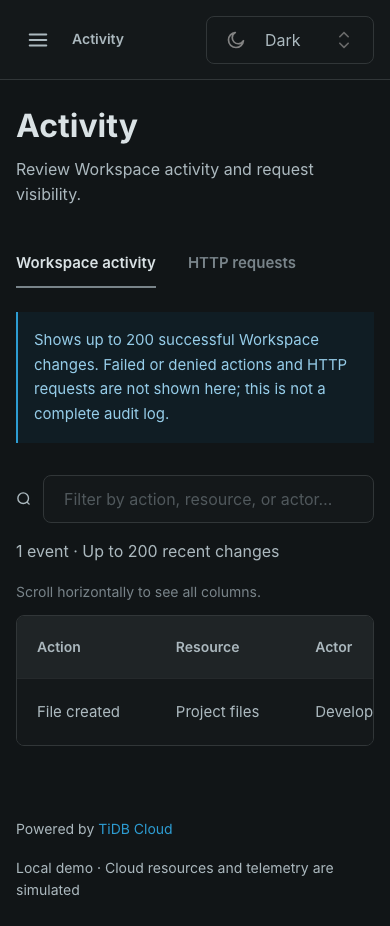
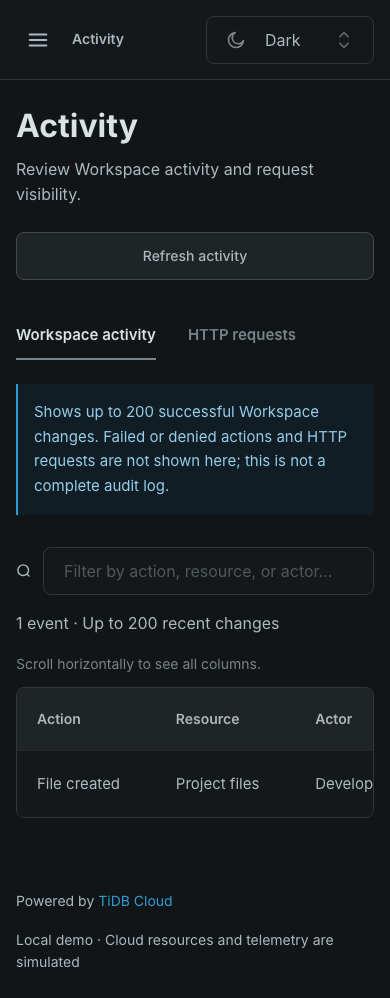
feat(console): refresh recorded workspace activity

diff --git a/src/App.tsx b/src/App.tsx
@@ -567,7 +567,7 @@ function App() {
           {route === 'keys' && <Keys {...shared} onNewKey={() => setModal('key')} />}
           {route === 'api' && <ApiExplorer {...shared} />}
           {route === 'monitoring' && <Monitoring {...shared} />}
-          {route === 'activity' && <ActivityPage data={data} />}
+          {route === 'activity' && <ActivityPage data={data} refresh={refresh} />}
           {route === 'billing' && <Billing {...shared} />}
           {route === 'settings' && (
             <WorkspaceSettings {...shared} sso={sso} onSignOut={requestSignOut} />
@@ -1914,14 +1914,38 @@ function Monitoring({ data }: Shared) {
     </>
   );
 }
-function ActivityPage({ data }: { data: Data }) {
+function ActivityPage({ data, refresh }: { data: Data; refresh: () => Promise<void> }) {
   const [tab, setTab] = useState('Workspace activity');
+  const [refreshing, setRefreshing] = useState(false);
+  const [refreshError, setRefreshError] = useState('');
+  async function refreshActivity() {
+    if (refreshing) return;
+    setRefreshing(true);
+    setRefreshError('');
+    try {
+      await refresh();
+    } catch {
+      setRefreshError('Could not refresh activity. Try again.');
+    } finally {
+      setRefreshing(false);
+    }
+  }
   return (
     <>
       <PageHeading
         title="Activity"
         description="Review Workspace activity and request visibility."
+        actions={
+          <Button loading={refreshing} onClick={() => void refreshActivity()}>
+            Refresh activity
+          </Button>
+        }
       />
+      {refreshError && (
+        <Alert color="red" role="alert" mb="md">
+          {refreshError}
+        </Alert>
+      )}
       <ChoiceTabs value={tab} onChange={setTab} options={['Workspace activity', 'HTTP requests']}>
         {tab === 'Workspace activity' ? (
           <WorkspaceActivityLog data={data} />
